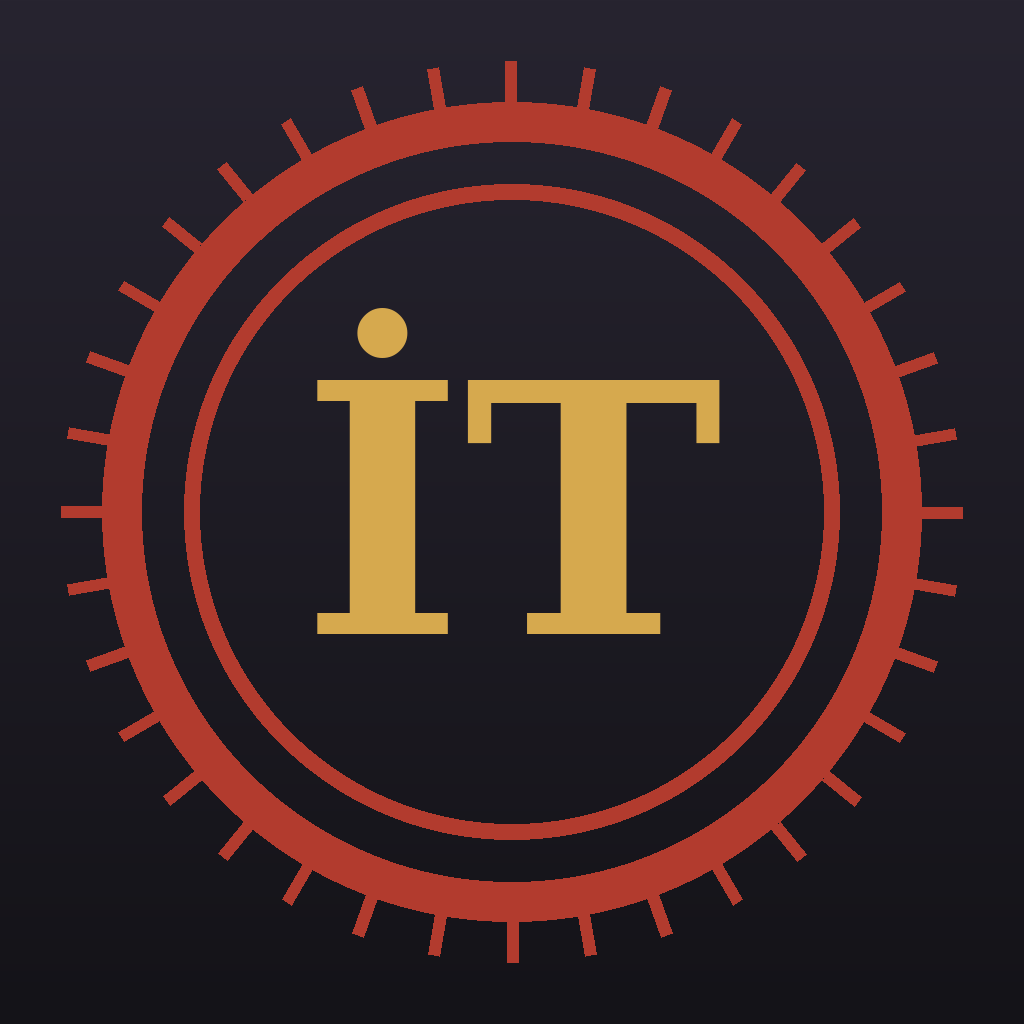
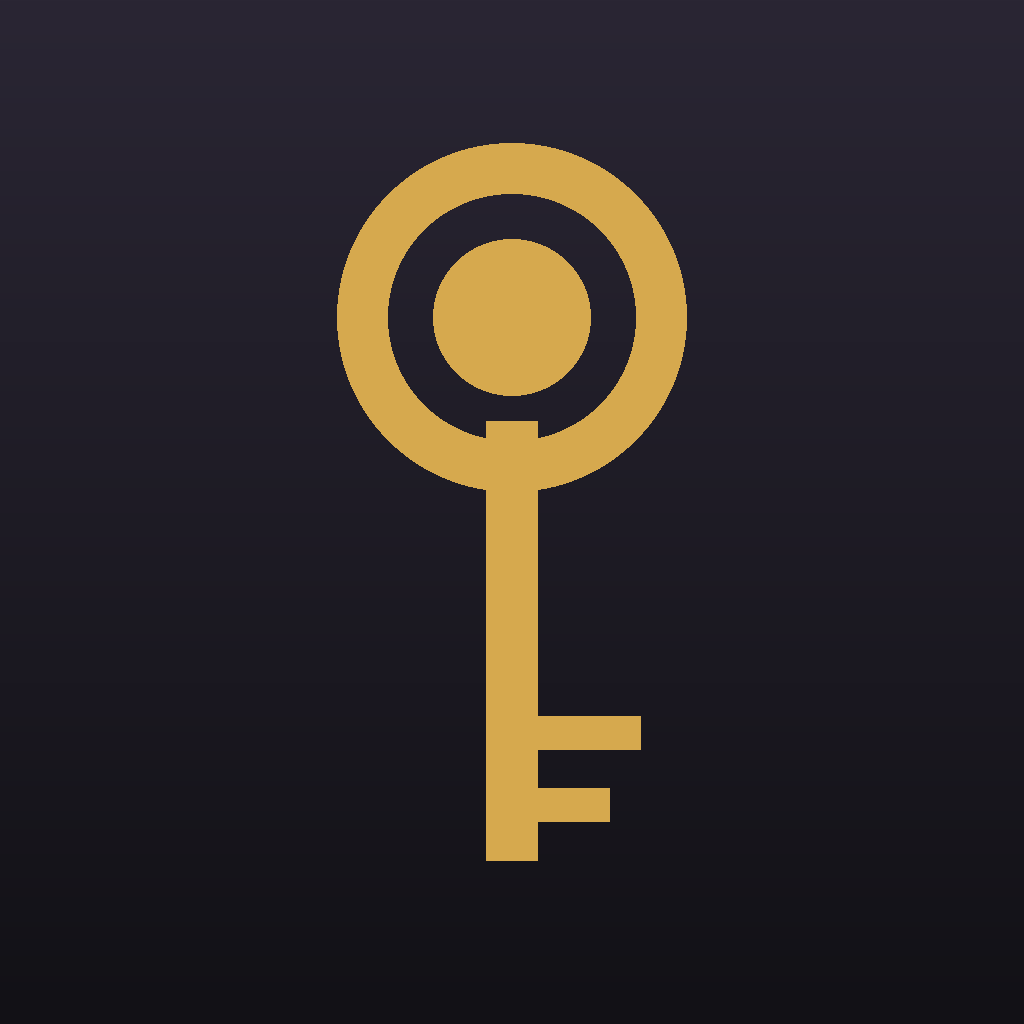
Uygulama ikonu: altın anahtar (İlk Tapu logosu seçildi)
Claude-Session: https://claude.ai/code/session_013p5gZ2aAYUutzoDNLKWTfk

Changed region(s): [[0.0625, 0.0625, 0.9375, 0.9375]]

diff --git a/mobile/res/make_icons.py b/mobile/res/make_icons.py
@@ -1,41 +1,39 @@
 # İlk Tapu simge ve açılış ekranı (PIL). Çalıştır: python3 res/make_icons.py
-# Görsel dil: koyu toprak zemin, buğday altını, kırmızı tapu mührü (resmi evrak).
+# Logo: altın anahtar (mülkiyet/tapu) — koyu toprak zemin.
 from PIL import Image, ImageDraw, ImageFont
-import math, os
+import os
 H = os.path.dirname(os.path.abspath(__file__)); IOS = os.path.join(H, '..', 'ios', 'App', 'App', 'Assets.xcassets')
 FONT = '/usr/share/fonts/truetype/dejavu/DejaVuSerif-Bold.ttf'
-WHEAT, MADDER, STRAW = (214, 169, 78), (178, 59, 46), (232, 220, 191)
-BG_TOP, BG_BOT = (39, 36, 48), (20, 19, 24)
+WHEAT, STRAW = (214, 169, 78), (232, 220, 191)
+BG_TOP, BG_BOT = (42, 38, 52), (18, 17, 22)
 def bg(w, h):
     im = Image.new('RGB', (w, h), BG_BOT); d = ImageDraw.Draw(im)
     for i in range(h):
-        t = i / h; c = tuple(int(BG_TOP[k] * (1 - t) + BG_BOT[k] * t) for k in range(3))
-        d.line([(0, i), (w, i)], fill=c)
+        t = i / h; c = tuple(int(BG_TOP[k] * (1 - t) + BG_BOT[k] * t) for k in range(3)); d.line([(0, i), (w, i)], fill=c)
     return im
-def seal(d, cx, cy, r):
-    # dış kırmızı mühür halkası + içte ikinci ince halka + çentikler
-    d.ellipse([cx - r, cy - r, cx + r, cy + r], outline=MADDER, width=max(3, int(r * .10)))
-    r2 = r * .80
-    d.ellipse([cx - r2, cy - r2, cx + r2, cy + r2], outline=MADDER, width=max(2, int(r * .04)))
-    for a in range(36):
-        ang = a * math.pi / 18; x1, y1 = cx + math.cos(ang) * r, cy + math.sin(ang) * r
-        x2, y2 = cx + math.cos(ang) * r * 1.10, cy + math.sin(ang) * r * 1.10
-        d.line([(x1, y1), (x2, y2)], fill=MADDER, width=max(2, int(r * .03)))
+def drawkey(d, cx, topy, scale):
+    # bow (üst halka)
+    bowr = scale * 0.17; by = topy + bowr
+    d.ellipse([cx - bowr, by - bowr, cx + bowr, by + bowr], outline=WHEAT, width=int(scale * 0.05))
+    d.ellipse([cx - bowr * 0.45, by - bowr * 0.45, cx + bowr * 0.45, by + bowr * 0.45], fill=WHEAT)
+    # shaft (gövde)
+    sh_w = scale * 0.05; shaft_bot = topy + scale * 0.70
+    d.rectangle([cx - sh_w / 2, by + bowr * 0.6, cx + sh_w / 2, shaft_bot], fill=WHEAT)
+    # teeth (dişler)
+    for i, ty in enumerate([0.56, 0.63]):
+        yy = topy + scale * ty
+        d.rectangle([cx + sh_w / 2, yy, cx + sh_w / 2 + scale * 0.10 * (1 - i * 0.3), yy + scale * 0.032], fill=WHEAT)
 def icon(n=1024):
-    im = bg(n, n); d = ImageDraw.Draw(im)
-    seal(d, n / 2, n / 2, n * .40)
-    f = ImageFont.truetype(FONT, int(n * .34)); d.text((n / 2, n * .50), 'İT', font=f, fill=WHEAT, anchor='mm')
-    return im
-def splash(n=2732):
-    im = bg(n, n); d = ImageDraw.Draw(im); c = n / 2
-    seal(d, c, c - n * .05, n * .14)
-    f = ImageFont.truetype(FONT, int(n * .11)); d.text((c, c - n * .05), 'İT', font=f, fill=WHEAT, anchor='mm')
-    f2 = ImageFont.truetype(FONT, int(n * .052)); d.text((c, c + n * .14), 'İLK TAPU', font=f2, fill=WHEAT, anchor='mm')
-    f3 = ImageFont.truetype(FONT, int(n * .018)); d.text((c, c + n * .19), 'BİR HANEDAN KUR', font=f3, fill=STRAW, anchor='mm')
-    f4 = ImageFont.truetype(FONT, int(n * .013)); d.text((c, c + n * .30), 'SARDUR TECHNOLOGIES  ·  SERHAT TUTAK', font=f4, fill=(168, 156, 130), anchor='mm')
+    im = bg(n, n); d = ImageDraw.Draw(im); drawkey(d, n / 2, n * 0.14, n); return im
+def splash(nn=2732):
+    im = bg(nn, nn); d = ImageDraw.Draw(im); c = nn / 2
+    drawkey(d, c, c - nn * 0.26, nn * 0.42)
+    f2 = ImageFont.truetype(FONT, int(nn * 0.052)); d.text((c, c + nn * 0.17), 'İLK TAPU', font=f2, fill=WHEAT, anchor='mm')
+    f3 = ImageFont.truetype(FONT, int(nn * 0.018)); d.text((c, c + nn * 0.22), 'BİR HANEDAN KUR', font=f3, fill=STRAW, anchor='mm')
+    f4 = ImageFont.truetype(FONT, int(nn * 0.013)); d.text((c, c + nn * 0.32), 'SARDUR TECHNOLOGIES  ·  SERHAT TUTAK', font=f4, fill=(168, 156, 130), anchor='mm')
     return im
 icon().save(os.path.join(IOS, 'AppIcon.appiconset', 'AppIcon-512@2x.png'))
 icon().save(os.path.join(H, 'icon-1024.png'))
 sp = splash()
 for nm in ['splash-2732x2732.png', 'splash-2732x2732-1.png', 'splash-2732x2732-2.png']: sp.save(os.path.join(IOS, 'Splash.imageset', nm))
-print('ikon + açılış üretildi')
+print('anahtar ikon + açılış üretildi')
